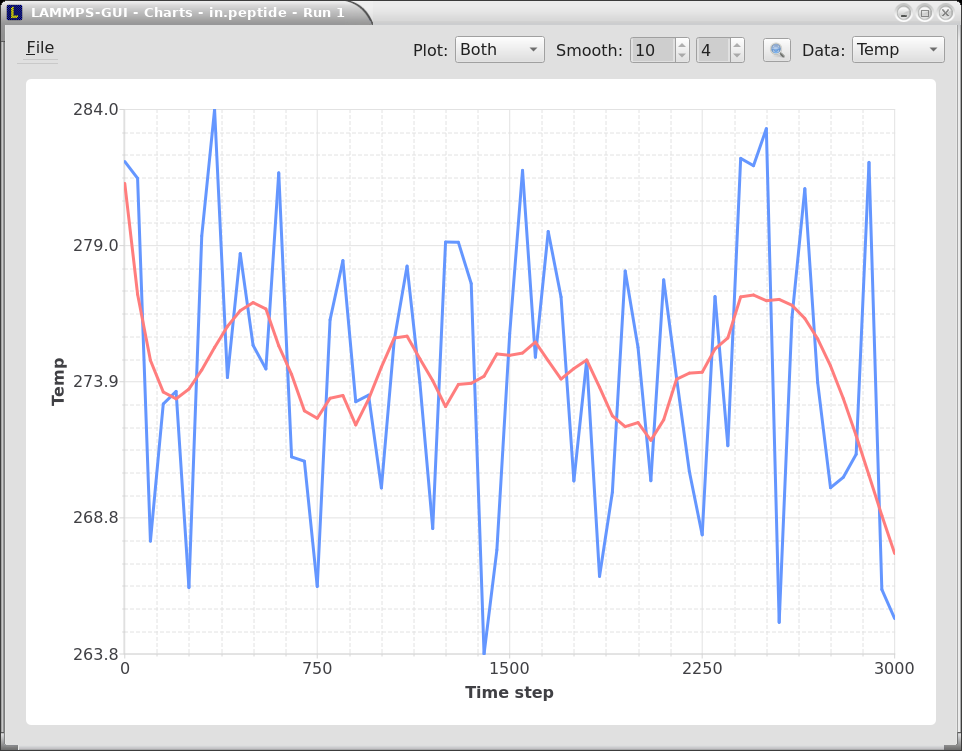
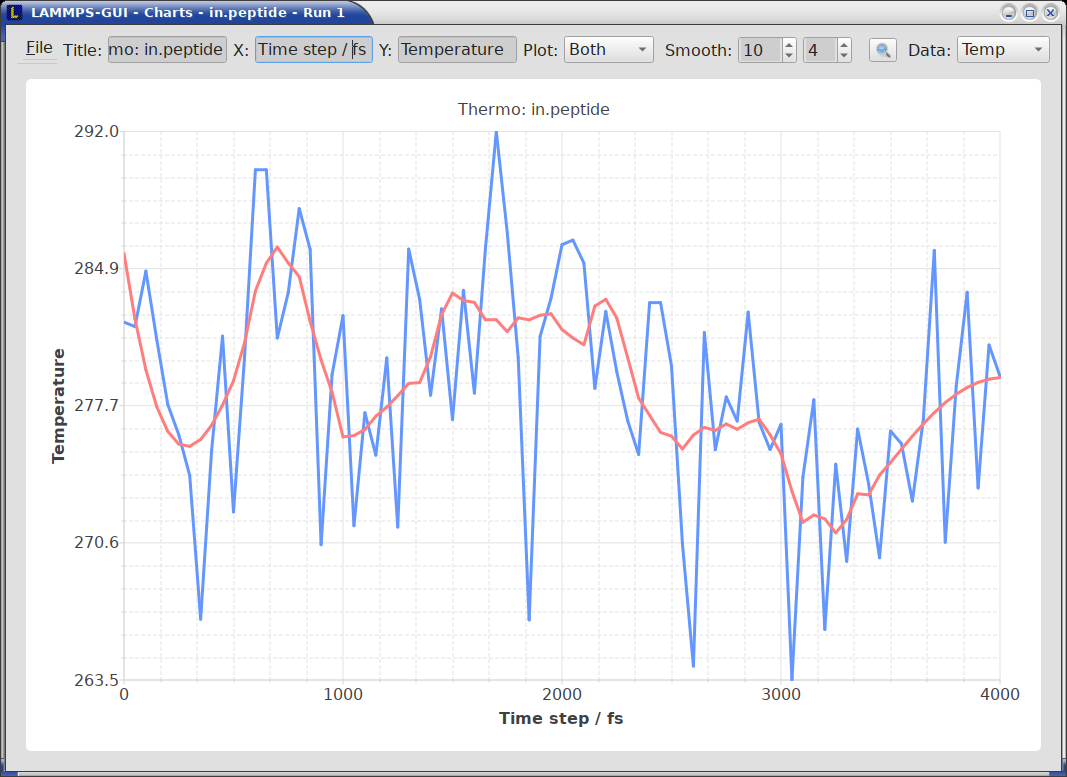
add functionality to edit the plot title and x- and y-axis labels

Changed region(s): [[0.0, 0.0, 1.0, 1.0], [0.4054, 0.1225, 0.5925, 0.1531], [0.0624, 0.1225, 0.1247, 0.1838]]

diff --git a/tools/lammps-gui/chartviewer.cpp b/tools/lammps-gui/chartviewer.cpp
@@ -46,7 +46,8 @@ using namespace QtCharts;
 ChartWindow::ChartWindow(const QString &_filename, QWidget *parent) :
     QWidget(parent), menu(new QMenuBar), file(new QMenu("&File")), saveAsAct(nullptr),
     exportCsvAct(nullptr), exportDatAct(nullptr), exportYamlAct(nullptr), closeAct(nullptr),
-    stopAct(nullptr), quitAct(nullptr), filename(_filename)
+    stopAct(nullptr), quitAct(nullptr), smooth(nullptr), window(nullptr), order(nullptr),
+    chartTitle(nullptr), chartXlabel(nullptr), chartYlabel(nullptr), filename(_filename)
 {
     auto *top = new QHBoxLayout;
     menu->addMenu(file);
@@ -56,6 +57,13 @@ ChartWindow::ChartWindow(const QString &_filename, QWidget *parent) :
     auto *dummy = new QPushButton(QIcon(), "");
     dummy->hide();
 
+    // plot title and axis labels
+
+    chartTitle  = new QLineEdit(QString("Thermo: %1").arg(filename));
+    chartXlabel = new QLineEdit("Time step");
+    chartYlabel = new QLineEdit("");
+
+    // plot smoothing
     do_raw    = true;
     do_smooth = true;
     smooth    = new QComboBox;
@@ -82,6 +90,12 @@ ChartWindow::ChartWindow(const QString &_filename, QWidget *parent) :
     top->addWidget(menu);
     top->addSpacerItem(new QSpacerItem(1, 1, QSizePolicy::Expanding, QSizePolicy::Minimum));
     top->addWidget(dummy);
+    top->addWidget(new QLabel("Title:"));
+    top->addWidget(chartTitle);
+    top->addWidget(new QLabel("X:"));
+    top->addWidget(chartXlabel);
+    top->addWidget(new QLabel("Y:"));
+    top->addWidget(chartYlabel);
     top->addWidget(new QLabel("Plot:"));
     top->addWidget(smooth);
     top->addWidget(new QLabel(" Smooth:"));
@@ -113,6 +127,9 @@ ChartWindow::ChartWindow(const QString &_filename, QWidget *parent) :
     layout->addLayout(top);
     setLayout(layout);
 
+    connect(chartTitle, &QLineEdit::editingFinished, this, &ChartWindow::update_labels);
+    connect(chartXlabel, &QLineEdit::editingFinished, this, &ChartWindow::update_labels);
+    connect(chartYlabel, &QLineEdit::editingFinished, this, &ChartWindow::update_ylabel);
     connect(smooth, SIGNAL(currentIndexChanged(int)), this, SLOT(select_smooth(int)));
     connect(window, &QAbstractSpinBox::editingFinished, this, &ChartWindow::update_smooth);
     connect(order, &QAbstractSpinBox::editingFinished, this, &ChartWindow::update_smooth);
@@ -160,8 +177,15 @@ void ChartWindow::add_chart(const QString &title, int index)
     columns->addItem(title, index);
     columns->show();
     // hide all but the first chart added
-    if (charts.size() > 0) chart->hide();
+    if (charts.size() > 0) {
+        chart->hide();
+    } else {
+        // must initialize QLineEdit with first title
+        // will be automatically updated when changing charts.
+        chartYlabel->setText(title);
+    }
     charts.append(chart);
+    update_labels();
 }
 
 void ChartWindow::add_data(int step, double data, int index)
@@ -224,6 +248,19 @@ void ChartWindow::update_smooth()
 
     for (auto &c : charts)
         c->smooth_param(do_raw, do_smooth, wval, oval);
+}
+
+void ChartWindow::update_labels()
+{
+    for (auto &c : charts)
+        c->set_labels(chartTitle->text(), chartXlabel->text());
+}
+
+void ChartWindow::update_ylabel()
+{
+    for (auto &c : charts) {
+        if (c->isVisible()) c->set_ylabel(chartYlabel->text());
+    }
 }
 
 void ChartWindow::saveAs()
@@ -343,10 +380,14 @@ void ChartWindow::change_chart(int)
 {
     int choice = columns->currentData().toInt();
     for (auto &c : charts) {
-        if (choice == c->get_index())
+        if (choice == c->get_index()) {
             c->show();
-        else
+            chartTitle->setText(c->get_tlabel());
+            chartXlabel->setText(c->get_xlabel());
+            chartYlabel->setText(c->get_ylabel());
+        } else {
             c->hide();
+        }
     }
 }
 
@@ -390,6 +431,7 @@ ChartViewer::ChartViewer(const QString &title, int _index, QWidget *parent) :
     chart->legend()->hide();
     chart->addAxis(xaxis, Qt::AlignBottom);
     chart->addAxis(yaxis, Qt::AlignLeft);
+    chart->setTitle("Thermo Output");
     xaxis->setTitleText("Time step");
     xaxis->setTickCount(5);
     xaxis->setLabelFormat("%d");
@@ -512,6 +554,21 @@ void ChartViewer::smooth_param(bool _do_raw, bool _do_smooth, int _window, int _
     window    = _window;
     order     = _order;
     update_smooth();
+}
+
+/* -------------------------------------------------------------------- */
+
+void ChartViewer::set_labels(const QString &tlabel, const QString &xlabel)
+{
+    chart->setTitle(tlabel);
+    xaxis->setTitleText(xlabel);
+}
+
+/* -------------------------------------------------------------------- */
+
+void ChartViewer::set_ylabel(const QString &ylabel)
+{
+    yaxis->setTitleText(ylabel);
 }
 
 /* -------------------------------------------------------------------- */

diff --git a/tools/lammps-gui/chartviewer.h b/tools/lammps-gui/chartviewer.h
@@ -15,6 +15,7 @@
 #define CHARTVIEWER_H
 
 #include <QComboBox>
+#include <QLineEdit>
 #include <QList>
 #include <QString>
 #include <QTime>
@@ -52,6 +53,8 @@ private slots:
     void stop_run();
     void select_smooth(int selection);
     void update_smooth();
+    void update_labels();
+    void update_ylabel();
 
     void saveAs();
     void exportDat();
@@ -73,6 +76,7 @@ private:
     QAction *closeAct, *stopAct, *quitAct;
     QComboBox *smooth;
     QSpinBox *window, *order;
+    QLineEdit *chartTitle, *chartXlabel, *chartYlabel;
 
     QString filename;
     QList<QtCharts::ChartViewer *> charts;
@@ -103,6 +107,11 @@ public:
     QString get_title() const { return series->name(); }
     double get_step(int index) const { return (index < 0) ? 0.0 : series->at(index).x(); }
     double get_data(int index) const { return (index < 0) ? 0.0 : series->at(index).y(); }
+    void set_labels(const QString &tlabel, const QString &xlabel);
+    void set_ylabel(const QString &ylabel);
+    QString get_tlabel() const { return chart->title(); }
+    QString get_xlabel() const { return xaxis->titleText(); }
+    QString get_ylabel() const { return yaxis->titleText(); }
 
 private:
     int last_step, index;

diff --git a/doc/src/Howto_lammps_gui.rst b/doc/src/Howto_lammps_gui.rst
@@ -350,8 +350,13 @@ data or both.  The smoothing uses a `Savitzky-Golay convolution filter
 window width (left) and order (right) parameters can be set in the boxes
 next to the drop down menu.  Default settings are 10 and 4 which means
 that the smoothing window includes 10 points each to the left and the
-right of the current data point and a fourth order polynomial is fit to
-the data in the window.
+right of the current data point for a total of 21 points and a fourth
+order polynomial is fitted to the data in the window.
+
+With the "Title:", "X:", and "Y:" boxes you can edit the text shown as
+the plot title and the x- or y-axis labels, respectively.  The "Title:"
+and "X:" text is applied to *all* charts, while the "Y:" text *only* to
+the y-axis of the currently selected plot.
 
 You can use the mouse to zoom into the graph (hold the left button and
 drag to mark an area) or zoom out (right click) and you can reset the

diff --git a/tools/lammps-gui/TODO.md b/tools/lammps-gui/TODO.md
@@ -9,7 +9,6 @@ LAMMPS-GUI TODO list:
   - default smooth parameters
   - default plot colors
   - enable "raw" or "smooth" or "both"
-- add QLineEdit fields to enter plot title, axis labels and units
 - add a "Colors" menu to the image viewer to adjust color settings for the
   current image (unlike the defaults in the perferences) including assigning
   colors to individual atom types.
